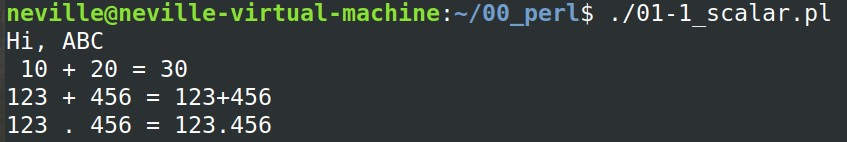
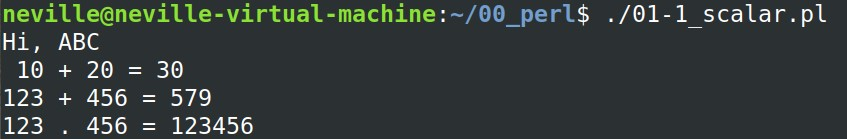
update

diff --git a/01_basic/Readme.md b/01_basic/Readme.md
@@ -35,8 +35,8 @@
 
     $str_num1 = 123;
     $str_num2 = 456;
-    print "$str_num1 + $str_num2 = $str_num1+$str_num2\n";
-    print "$str_num1 . $str_num2 = $str_num1.$str_num2\n";
+    print "$str_num1 + $str_num2 = ",$str_num1+$str_num2,"\n";
+    print "$str_num1 . $str_num2 = ",$str_num1.$str_num2,"\n";
     ```
 * Terminal:
 </br><img src="01-1_scalar.jpg" width="50%" height="50%"></br>
